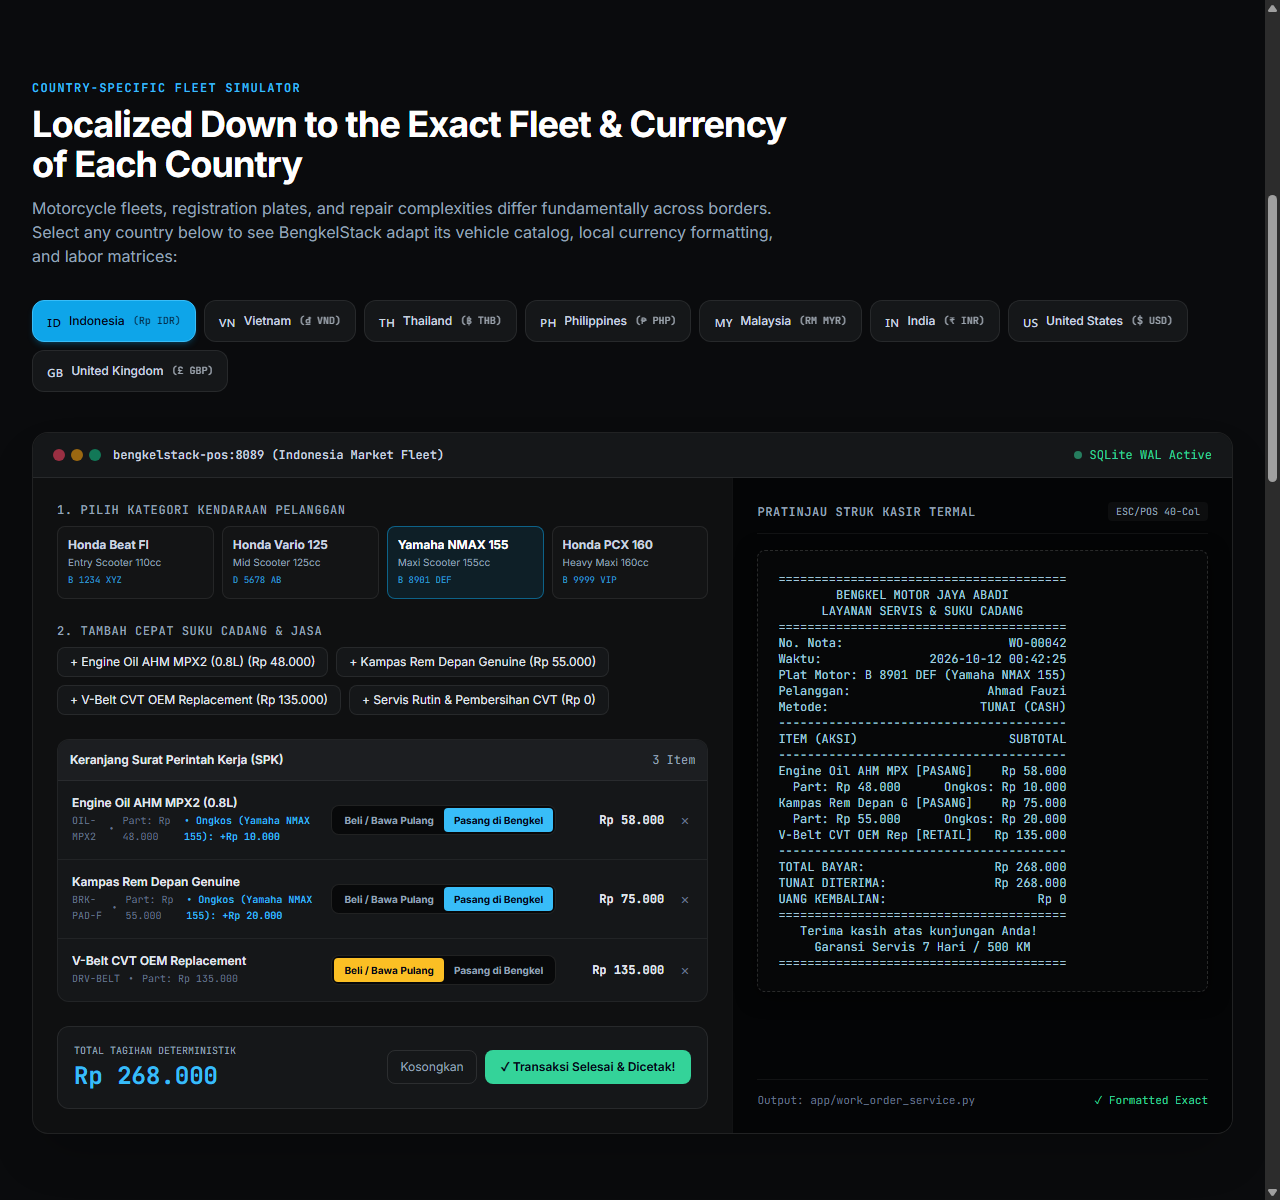
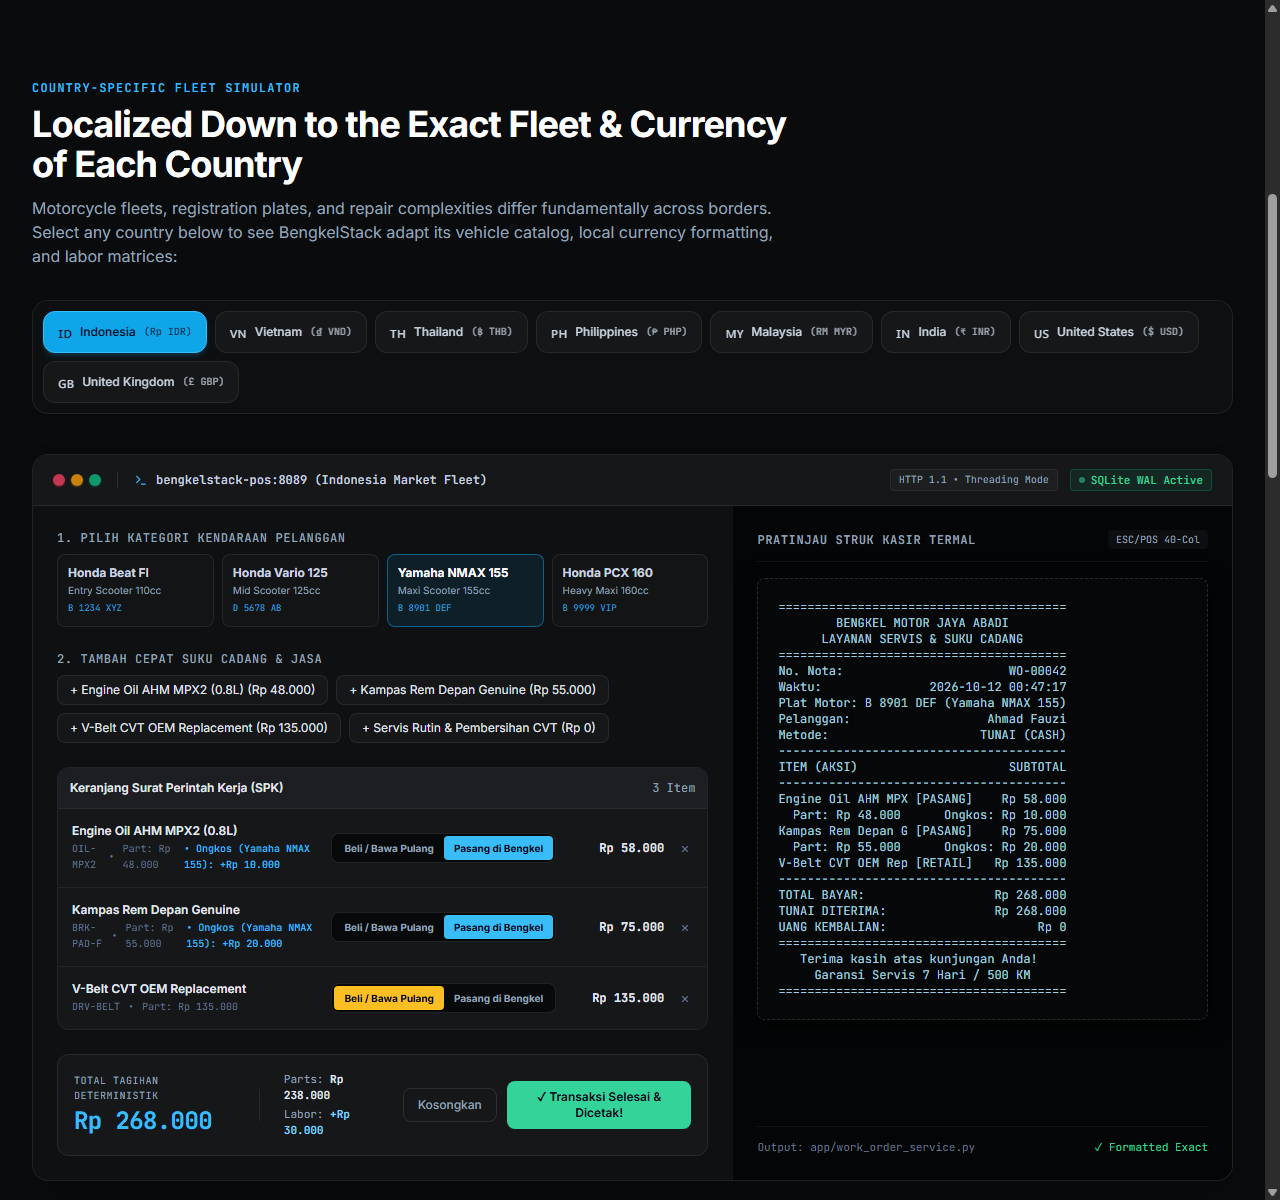
feat(ui): elevate visual craft with glass dock ribbon, desktop window chrome, and parts/labor breakdown

diff --git a/index.html b/index.html
@@ -145,13 +145,20 @@
         </div>
 
         <!-- Quickstart Console Command -->
-        <div class="max-w-xl mx-auto p-3 rounded-xl bg-panel border border-[rgba(255,255,255,0.08)] flex items-center justify-between gap-3 text-left font-mono text-xs text-slate-300 shadow-xl">
-          <div class="truncate">
-            <span class="text-sky-400 select-none">$ </span>git clone https://github.com/BengkelStack/bengkelstack-core.git &amp;&amp; python run.py
+        <div class="max-w-xl mx-auto p-2.5 sm:p-3 rounded-xl bg-panel/90 border border-[rgba(255,255,255,0.1)] flex items-center justify-between gap-3 text-left font-mono text-xs text-slate-300 shadow-2xl backdrop-blur-sm">
+          <div class="truncate flex items-center gap-2">
+            <span class="text-sky-400 select-none font-bold">$</span>
+            <span id="quickstartCmd">git clone https://github.com/BengkelStack/bengkelstack-core.git &amp;&amp; python run.py</span>
           </div>
-          <span class="text-[10px] text-emerald-400 font-semibold px-2 py-0.5 rounded bg-emerald-500/10 border border-emerald-500/20 whitespace-nowrap">
-            0 pip packages
-          </span>
+          <div class="flex items-center gap-2 flex-shrink-0">
+            <span class="text-[10px] text-emerald-400 font-semibold px-2 py-0.5 rounded bg-emerald-500/10 border border-emerald-500/20 whitespace-nowrap hidden sm:inline-block">
+              0 pip packages
+            </span>
+            <button onclick="copyQuickstart()" id="btnCopyQuickstart" class="px-2.5 py-1 text-[11px] rounded-lg bg-surface hover:bg-surface-hover border border-[rgba(255,255,255,0.1)] text-slate-300 hover:text-white transition-all flex items-center gap-1.5" title="Copy to clipboard">
+              <svg class="w-3.5 h-3.5 text-slate-400" viewBox="0 0 24 24" fill="none" stroke="currentColor" stroke-width="2"><rect x="9" y="9" width="13" height="13" rx="2" ry="2"></rect><path d="M5 15H4a2 2 0 0 1-2-2V4a2 2 0 0 1 2-2h9a2 2 0 0 1 2 2v1"></path></svg>
+              <span id="copyQuickstartText">Copy</span>
+            </button>
+          </div>
         </div>
       </div>
     </section>
@@ -174,8 +181,10 @@
           </div>
 
           <!-- Country Selector Ribbon (8 Major Motorcycle Markets) -->
-          <div class="flex flex-wrap items-center gap-2 select-none" id="countryRibbon">
-            <!-- Dynamically populated with active flag indicators -->
+          <div class="p-2 sm:p-2.5 rounded-2xl bg-panel/80 border border-[rgba(255,255,255,0.08)] shadow-lg backdrop-blur-md">
+            <div class="flex flex-wrap items-center gap-2 select-none" id="countryRibbon">
+              <!-- Dynamically populated with active flag indicators -->
+            </div>
           </div>
         </div>
 
@@ -184,16 +193,25 @@
           <!-- Terminal Header -->
           <div class="px-5 py-3.5 bg-surface border-b border-[rgba(255,255,255,0.08)] flex flex-wrap items-center justify-between gap-4">
             <div class="flex items-center gap-3">
-              <div class="flex gap-1.5">
-                <div class="w-3 h-3 rounded-full bg-rose-500/60"></div>
-                <div class="w-3 h-3 rounded-full bg-amber-500/60"></div>
-                <div class="w-3 h-3 rounded-full bg-emerald-500/60"></div>
+              <div class="flex gap-1.5 items-center">
+                <div class="w-3 h-3 rounded-full bg-rose-500/80 shadow-sm shadow-rose-500/30"></div>
+                <div class="w-3 h-3 rounded-full bg-amber-500/80 shadow-sm shadow-amber-500/30"></div>
+                <div class="w-3 h-3 rounded-full bg-emerald-500/80 shadow-sm shadow-emerald-500/30"></div>
               </div>
-              <span class="text-xs font-mono text-slate-300 font-medium" id="terminalTitle">bengkelstack-pos:8089 (Global Market Fleet)</span>
+              <div class="h-4 w-[1px] bg-[rgba(255,255,255,0.1)] mx-1 hidden sm:block"></div>
+              <span class="text-xs font-mono text-slate-300 font-medium flex items-center gap-2">
+                <svg class="w-3.5 h-3.5 text-sky-400" viewBox="0 0 24 24" fill="none" stroke="currentColor" stroke-width="2"><path d="M4 17l6-6-6-6m8 14h8"/></svg>
+                <span id="terminalTitle">bengkelstack-pos:8089 (United States Market Fleet)</span>
+              </span>
             </div>
-            <div class="flex items-center gap-2 text-xs font-mono text-emerald-400">
-              <span class="w-2 h-2 rounded-full bg-emerald-400 animate-pulse"></span>
-              <span>SQLite WAL Active</span>
+            <div class="flex items-center gap-3 text-xs font-mono">
+              <span class="hidden sm:inline-flex items-center gap-1.5 px-2 py-0.5 rounded bg-white/[0.03] border border-[rgba(255,255,255,0.06)] text-slate-400 text-[10px]">
+                HTTP 1.1 • Threading Mode
+              </span>
+              <span class="inline-flex items-center gap-1.5 px-2 py-0.5 rounded bg-emerald-500/10 border border-emerald-500/25 text-emerald-400 text-[11px] font-medium">
+                <span class="w-1.5 h-1.5 rounded-full bg-emerald-400 animate-pulse"></span>
+                <span>SQLite WAL Active</span>
+              </span>
             </div>
           </div>
 
@@ -235,17 +253,25 @@
               </div>
 
               <!-- 4. Grand Total & Action Bar -->
-              <div class="flex items-center justify-between p-4 rounded-xl bg-surface border border-[rgba(255,255,255,0.08)]">
-                <div>
-                  <div id="lblGrandTotal" class="text-[10px] font-mono uppercase text-slate-400">Deterministic Grand Total</div>
-                  <div class="text-2xl font-bold font-mono text-sky-400 mt-0.5" id="demoGrandTotal">$0.00</div>
+              <div class="flex flex-col sm:flex-row items-stretch sm:items-center justify-between p-4 rounded-xl bg-surface border border-[rgba(255,255,255,0.08)] gap-4">
+                <div class="flex items-center gap-6">
+                  <div>
+                    <div id="lblGrandTotal" class="text-[10px] font-mono uppercase tracking-wider text-slate-400">Deterministic Grand Total</div>
+                    <div class="text-2xl font-bold font-mono text-sky-400 mt-0.5 tracking-tight" id="demoGrandTotal">$0.00</div>
+                  </div>
+                  <div class="hidden sm:block h-8 w-[1px] bg-[rgba(255,255,255,0.08)]"></div>
+                  <div class="hidden sm:block text-[11px] font-mono text-slate-400 space-y-0.5">
+                    <div>Parts: <span id="demoPartsSubtotal" class="text-slate-200 font-semibold">$0.00</span></div>
+                    <div>Labor: <span id="demoLaborSubtotal" class="text-sky-300 font-semibold">+$0.00</span></div>
+                  </div>
                 </div>
-                <div class="flex gap-2">
-                  <button onclick="resetDemoCart()" id="btnResetCart" class="px-3 py-2 text-xs rounded-lg border border-[rgba(255,255,255,0.1)] text-slate-400 hover:text-white transition-colors">
+                <div class="flex gap-2.5 items-center justify-end">
+                  <button onclick="resetDemoCart()" id="btnResetCart" class="px-3.5 py-2 text-xs font-medium rounded-lg border border-[rgba(255,255,255,0.1)] text-slate-400 hover:text-white hover:bg-white/[0.04] transition-all">
                     Reset
                   </button>
-                  <button onclick="simulateCheckout()" id="btnDemoCheckout" class="px-4 py-2 text-xs font-semibold rounded-lg bg-emerald-500 text-slate-950 hover:bg-emerald-400 transition-all shadow-md shadow-emerald-500/20">
-                    Simulate Checkout &amp; Pay
+                  <button onclick="simulateCheckout()" id="btnDemoCheckout" class="px-5 py-2 text-xs font-semibold rounded-lg bg-emerald-500 text-slate-950 hover:bg-emerald-400 transition-all shadow-md shadow-emerald-500/20 flex items-center gap-2">
+                    <svg class="w-3.5 h-3.5" viewBox="0 0 24 24" fill="none" stroke="currentColor" stroke-width="2.2"><path d="M6 9V2h12v7M6 18H4a2 2 0 0 1-2-2v-5a2 2 0 0 1 2-2h16a2 2 0 0 1 2 2v5a2 2 0 0 1-2 2h-2"/><rect x="6" y="14" width="12" height="8"/></svg>
+                    <span>Simulate Checkout &amp; Pay</span>
                   </button>
                 </div>
               </div>
@@ -1344,6 +1370,12 @@ Loading receipt stream...
       `).join('');
 
       document.getElementById('demoGrandTotal').textContent = formatCurrency(grandTotal);
+      const elParts = document.getElementById('demoPartsSubtotal');
+      const elLabor = document.getElementById('demoLaborSubtotal');
+      let totalPartsCost = calculatedItems.reduce((acc, it) => acc + (it.price * (it.quantity || 1)), 0);
+      let totalLaborCost = calculatedItems.reduce((acc, it) => acc + (it.laborFee * (it.quantity || 1)), 0);
+      if (elParts) elParts.textContent = formatCurrency(totalPartsCost);
+      if (elLabor) elLabor.textContent = (totalLaborCost > 0 ? "+" : "") + formatCurrency(totalLaborCost);
       renderThermalSlip(calculatedItems, grandTotal);
     }
 
@@ -1401,6 +1433,15 @@ Loading receipt stream...
         btn.textContent = c.i18n.checkoutBtn;
         btn.className = "px-4 py-2 text-xs font-semibold rounded-lg bg-emerald-500 text-slate-950 hover:bg-emerald-400 transition-all shadow-md shadow-emerald-500/20";
       }, 2500);
+    }
+
+    function copyQuickstart() {
+      const cmd = document.getElementById('quickstartCmd').textContent;
+      navigator.clipboard.writeText(cmd).then(() => {
+        const text = document.getElementById('copyQuickstartText');
+        text.textContent = 'Copied!';
+        setTimeout(() => { text.textContent = 'Copy'; }, 2000);
+      });
     }
 
     // Initialize on page load with US as default
